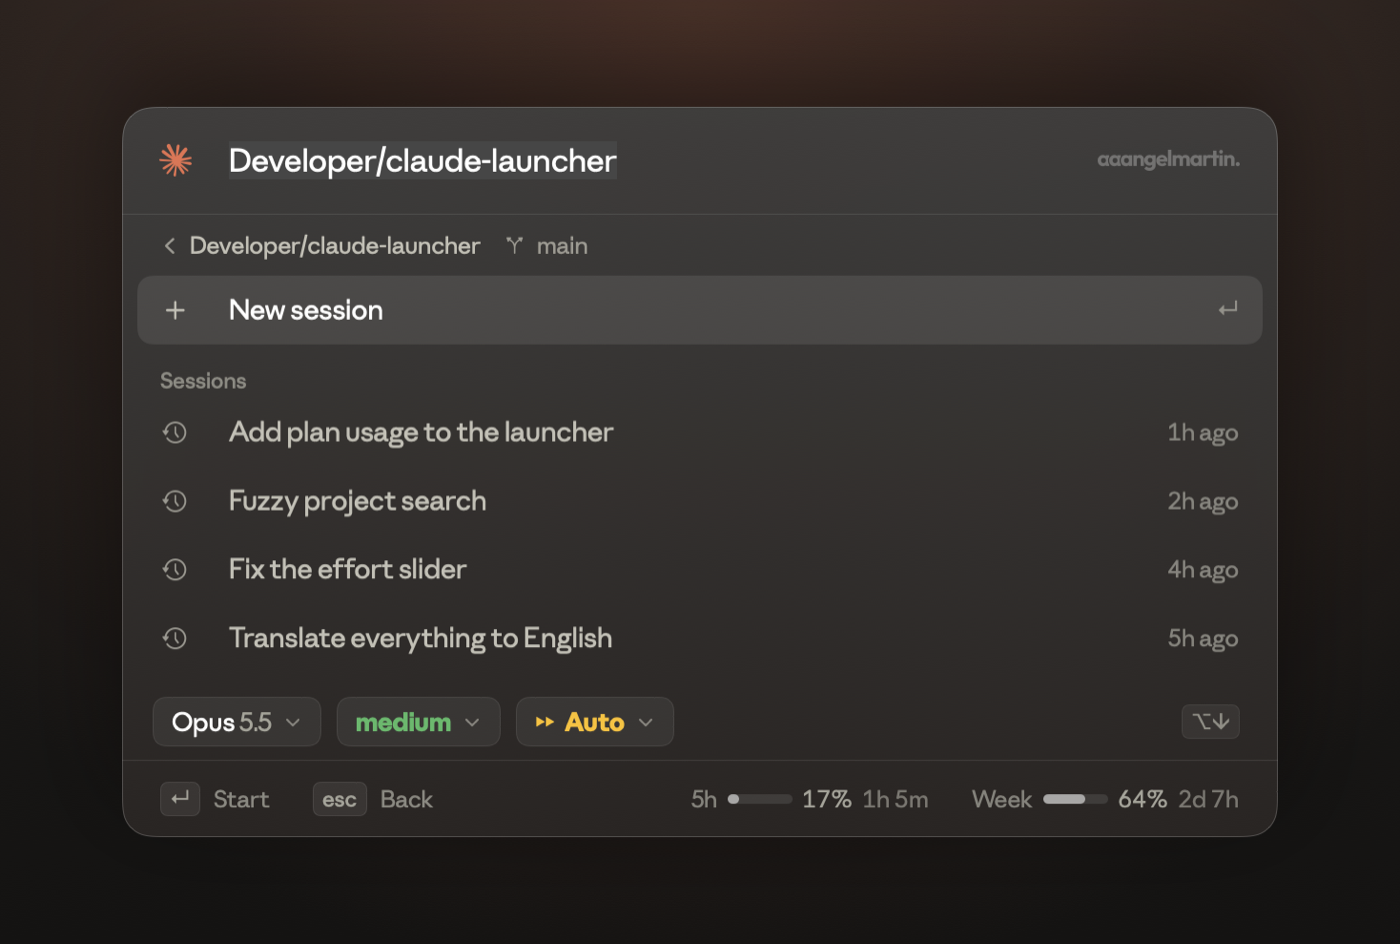
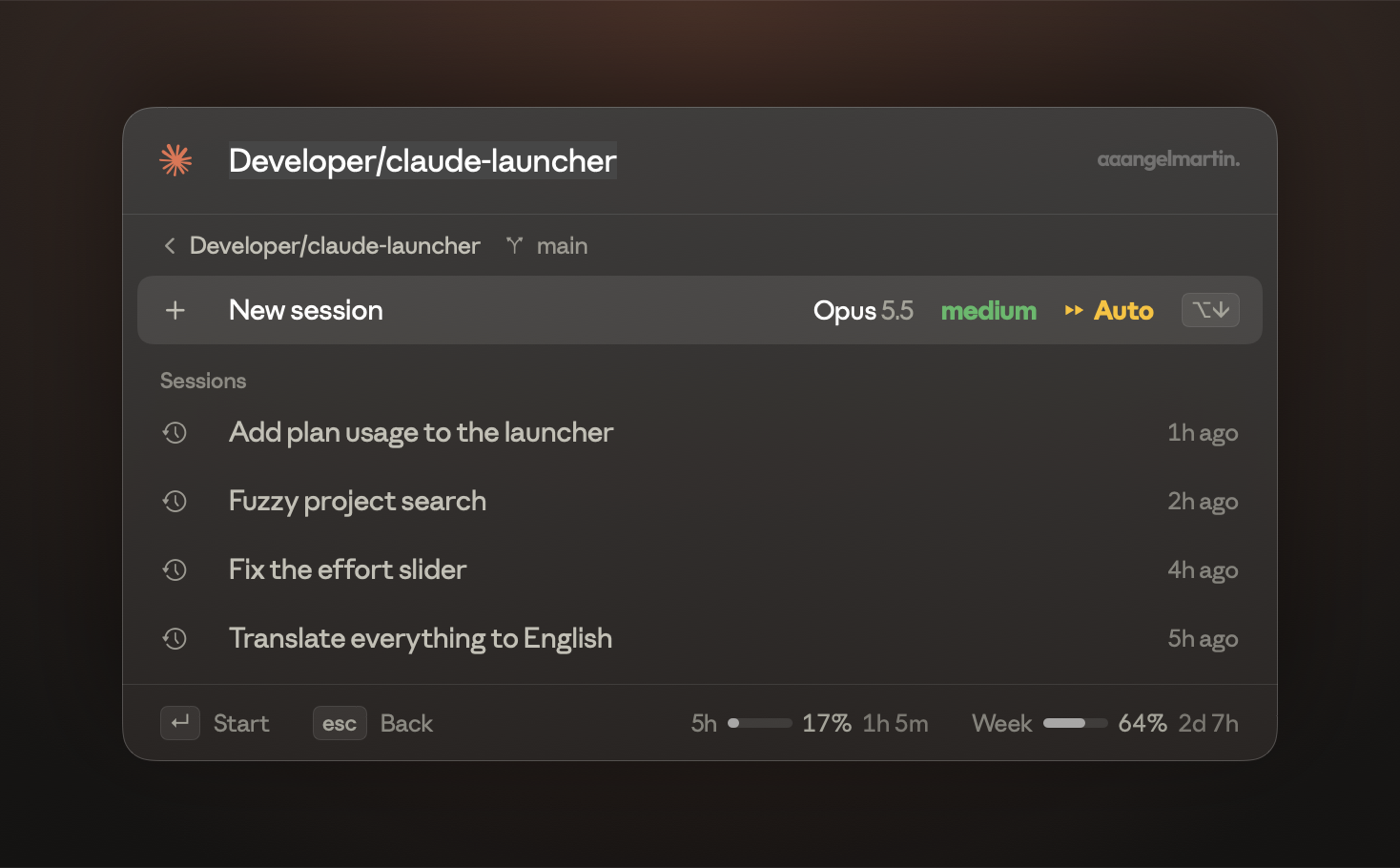
feat: launch options on the New session line only
Model, effort and permissions no longer show while searching or as a
row of their own: inside a folder they sit on the New session line,
which is what they shape, and open under the list on a click or ⌥↓.
Starting at once uses the defaults.

Part of #8

diff --git a/Sources/ClaudeLauncher/OptionsView.swift b/Sources/ClaudeLauncher/OptionsView.swift
@@ -22,7 +22,7 @@ struct OptionsSection: View {
     let theme: AppTheme
     @Namespace private var focus
 
-    static let foldedHeight: CGFloat = 40
+    static let foldedHeight: CGFloat = 0
     static let rowHeight: CGFloat = 40
     static let sliderHeight: CGFloat = 78
     static let modesHeight: CGFloat = 40
@@ -77,21 +77,8 @@ struct OptionsSection: View {
     /// the running sessions the keys that act on them), on the right the plan's use
     /// folded: how a new or resumed session is launched, ⌥↓ (or a click) to change it. the keys and
     /// the plan's use live in the command bar under it
-    private var summary: some View {
-        HStack(spacing: 0) {
-            launchValues
-            Spacer(minLength: 8)
-            KeyCap(key: "⌥↓", theme: theme)
-                .opacity(0.8)
-                .help("Change model, effort and permissions")
-        }
-        .font(theme.chip)
-        .padding(.leading, 16)
-        .padding(.trailing, 20)
-        .frame(height: Self.foldedHeight)
-        .contentShape(Rectangle())
-        .onTapGesture { model.openOptions() }
-    }
+    /// folded, the options take no room: their values sit on the New session line (LaunchSummary)
+    private var summary: some View { Color.clear.frame(height: 0) }
 
     /// the window's shortcut as typed on its key caps, ⌥C unless another was picked
     static var shortcutText: String { KeyboardShortcuts.getShortcut(for: .openClaude)?.description ?? "⌥C" }
@@ -131,6 +118,46 @@ struct OptionsSection: View {
         .overlay(RoundedRectangle(cornerRadius: 7).strokeBorder(Color.white.opacity(0.08), lineWidth: 0.5))
         .contentShape(Rectangle())
         .onTapGesture { model.openOptions(at: index) }
+    }
+}
+
+/// how a new session will start, on its own line: the model, the effort and the permission mode,
+/// each painted as claude code paints it and opening its option on a click, then ⌥↓
+struct LaunchSummary: View {
+    @ObservedObject var model: MainModel
+    let theme: AppTheme
+
+    var body: some View {
+        HStack(spacing: 14) {
+            value(LaunchOptions.model) {
+                ModelName(label: model.display(model.choice(of: LaunchOptions.model), of: LaunchOptions.model), on: true, theme: theme)
+            }
+            value(LaunchOptions.effort) {
+                let choice = model.choice(of: LaunchOptions.effort)
+                PaintedText(text: choice.label, paint: choice.paint, font: theme.chip, bold: true)
+            }
+            value(LaunchOptions.permissions) {
+                let choice = model.choice(of: LaunchOptions.permissions)
+                HStack(spacing: 5) {
+                    if let symbol = choice.symbol {
+                        PaintedText(text: symbol, paint: choice.paint, font: .system(size: 10))
+                    }
+                    PaintedText(text: theme.say(choice.label), paint: choice.paint == .plain(CC.inactive) ? .plain(RGB(255, 255, 255)) : choice.paint, font: theme.chip, bold: true)
+                }
+            }
+            KeyCap(key: "⌥↓", theme: theme)
+                .help("Change model, effort and permissions")
+        }
+        .font(theme.chip)
+        .lineLimit(1)
+        .fixedSize()
+    }
+
+    private func value<Content: View>(_ index: Int, @ViewBuilder _ content: () -> Content) -> some View {
+        content()
+            .contentShape(Rectangle())
+            .onTapGesture { model.openOptions(at: index) }
+            .help("Change it")
     }
 }
 

diff --git a/Sources/ClaudeLauncher/MainView.swift b/Sources/ClaudeLauncher/MainView.swift
@@ -62,10 +62,10 @@ struct MainView: View {
                         : .opacity)
 
             // how a session starts, where one does
-            // how a session starts, where one does: pills at the foot of the list, no line of their own
-            if model.moment != .running {
+            // in a folder, the launch options open under the list (⌥↓, or a click on a value on the
+            // New session line); folded they take no room
+            if model.moment == .step {
                 OptionsSection(model: model, theme: theme)
-                    .transition(.opacity)
             }
             // the keys that act here, and the plan's use, everywhere
             divider
@@ -689,7 +689,7 @@ private struct StepList: View {
                     case .new:
                         ListLine(model: model, index: i, icon: AnyView(Image(systemName: "plus").font(.system(size: 12, weight: .medium)).foregroundStyle(theme.textRow)),
                                  title: theme.say("New session"), folder: nil,
-                                 trailing: AnyView(Text("↵").foregroundStyle(theme.textMuted.opacity(i == model.selected ? 0.9 : 0))), theme: theme)
+                                 trailing: AnyView(LaunchSummary(model: model, theme: theme)), theme: theme)
                         if items.count > 1 {
                             SectionLabel(title: "Sessions", hint: "", theme: theme)
                         }

diff --git a/Sources/ClaudeLauncher/MainModel.swift b/Sources/ClaudeLauncher/MainModel.swift
@@ -411,7 +411,8 @@ final class MainModel: ObservableObject {
             if newFolder != nil { createAndStart() } else { NSSound.beep() }
             return true
         }
-        if key == .optionsDown { if moment != .running { optionRow = optionRow ?? 0 }; return true }
+        // the launch options belong to a folder's new session
+        if key == .optionsDown { if moment == .step { optionRow = optionRow ?? 0 }; return true }
         if key == .optionsUp { optionRow = nil; return true }
         if let optionRow { return handleOptions(key, optionRow) }
         switch key {

diff --git a/README.md b/README.md
@@ -61,7 +61,7 @@ What needs you comes first.
 
 ### Launch options
 
-When a session starts or resumes, pills at the foot of the list show how: **model**, **effort** and **permissions**. A click on one, or **⌥↓**, opens them. The bottom bar itself always says what the keys do where you are, with your plan use on the right.
+Inside a folder, the **New session** line shows how it will start: **model**, **effort** and **permissions**. A click on one, or **⌥↓**, opens them under the list. Starting at once (your shortcut, **⌘↵**, **⌘N**) uses the defaults. The bottom bar always says what the keys do where you are, with your plan use on the right.
 
 ![Launch options](docs/options.png)
 
@@ -85,7 +85,7 @@ On the right of the bottom bar, everywhere: your five-hour session and weekly us
 | **⌘↵** | start a new session at once |
 | **⌘N** | create the folder typed and start Claude in it |
 | **Tab** | highlight the first line; on a folder, complete its path |
-| **⌥↓ ⌥↑** | open and fold the launch options |
+| **⌥↓ ⌥↑** | in a folder, open and fold the launch options |
 | **esc** | back out one step: the folder, what is typed, then the window |
 | **⌘,** | the setup again (shortcut, checks) |
 | **⌘Q** | quit |
